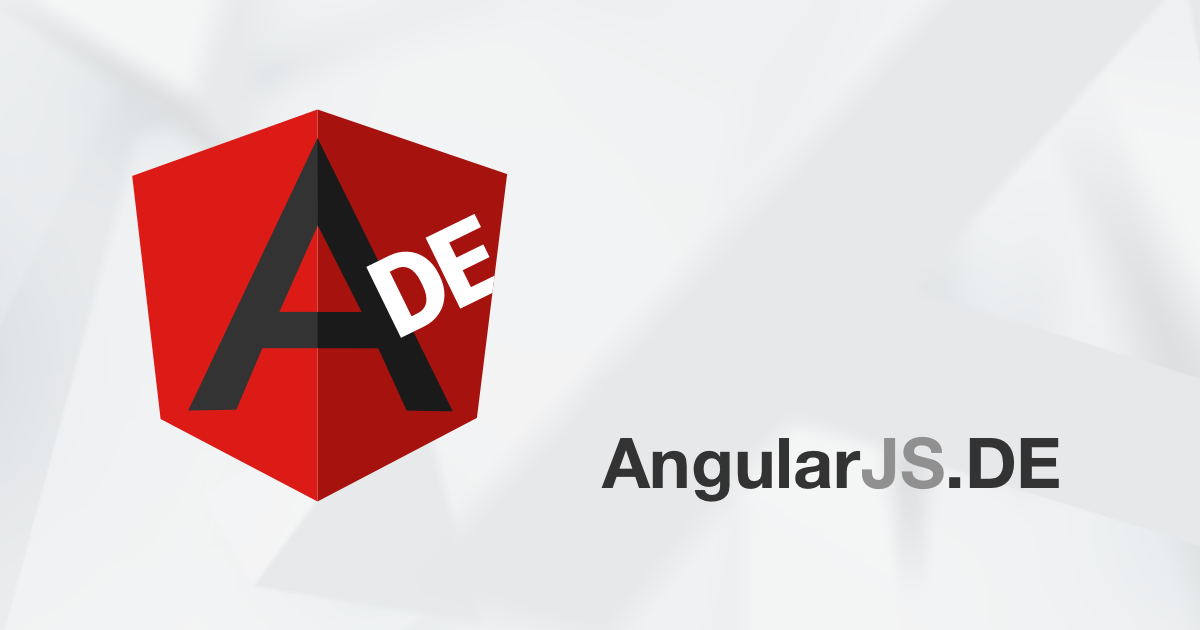
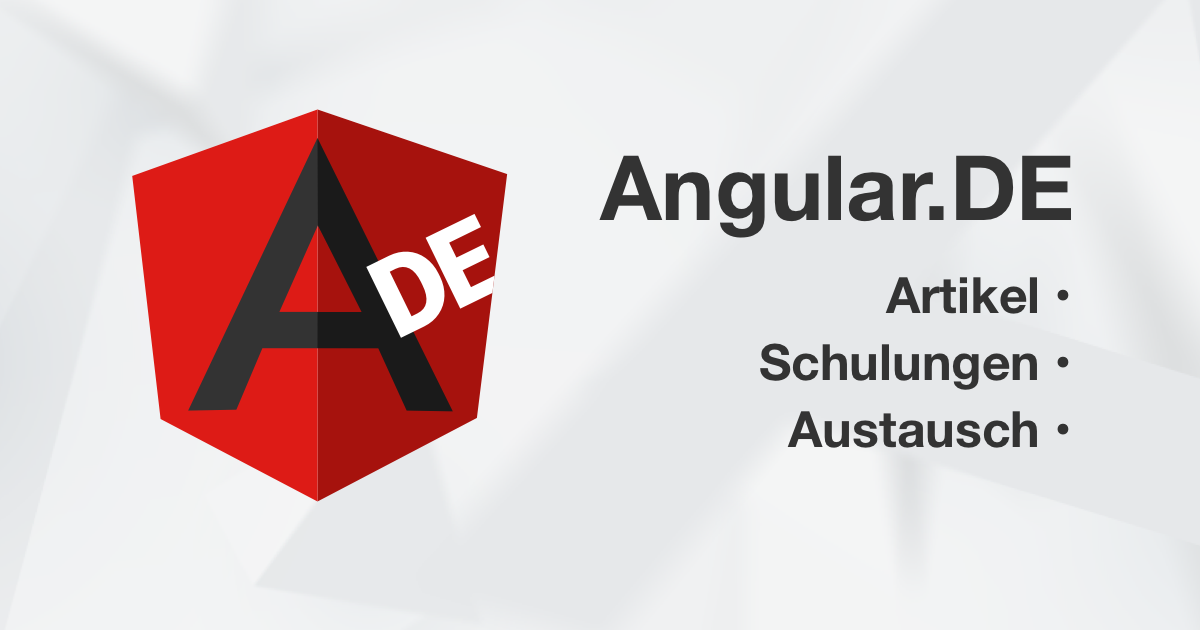
refactor(branding): change images

diff --git a/_includes/_navigation.html b/_includes/_navigation.html
@@ -4,7 +4,7 @@
       <span class="navbar-toggler-icon"></span>
     </button>
     <a class="navbar-brand d-none d-md-block img-grayscale-100" href="/">
-      <img alt="Angular.DE" src="/assets/img/angularjs-de-logo.svg" width="22">
+      <img alt="Angular.DE" src="/assets/img/angular-de-logo.svg" width="22">
     </a>
     <div class="collapse navbar-collapse order-10 mt-3 mt-sm-0" id="navbarNav">
       <ul class="navbar-nav">
@@ -37,7 +37,7 @@
      </div>
     </div>
     <a class="navbar-brand order-md-12" href="/">
-      angular<span class="text-muted">js.de</span>
+      angular.de
     </a>
   </div><!-- .container -->
 </nav>

diff --git a/_pages/home.html b/_pages/home.html
@@ -9,7 +9,7 @@ permalink: /
     <div class="row">
       <div class="col-3 col-sm-3 text-center mx-auto my-auto">
         <img class="img img-fluid mx-xl-4" alt="Angular &amp; TypeScript Intensiv-Schulung"
-              src="/assets/img/angularjs-de-logo.svg"
+              src="/assets/img/angular-de-logo.svg"
               title="Angular.DE Logo">
       </div>
       <div class="col-sm-9 pt-3">
